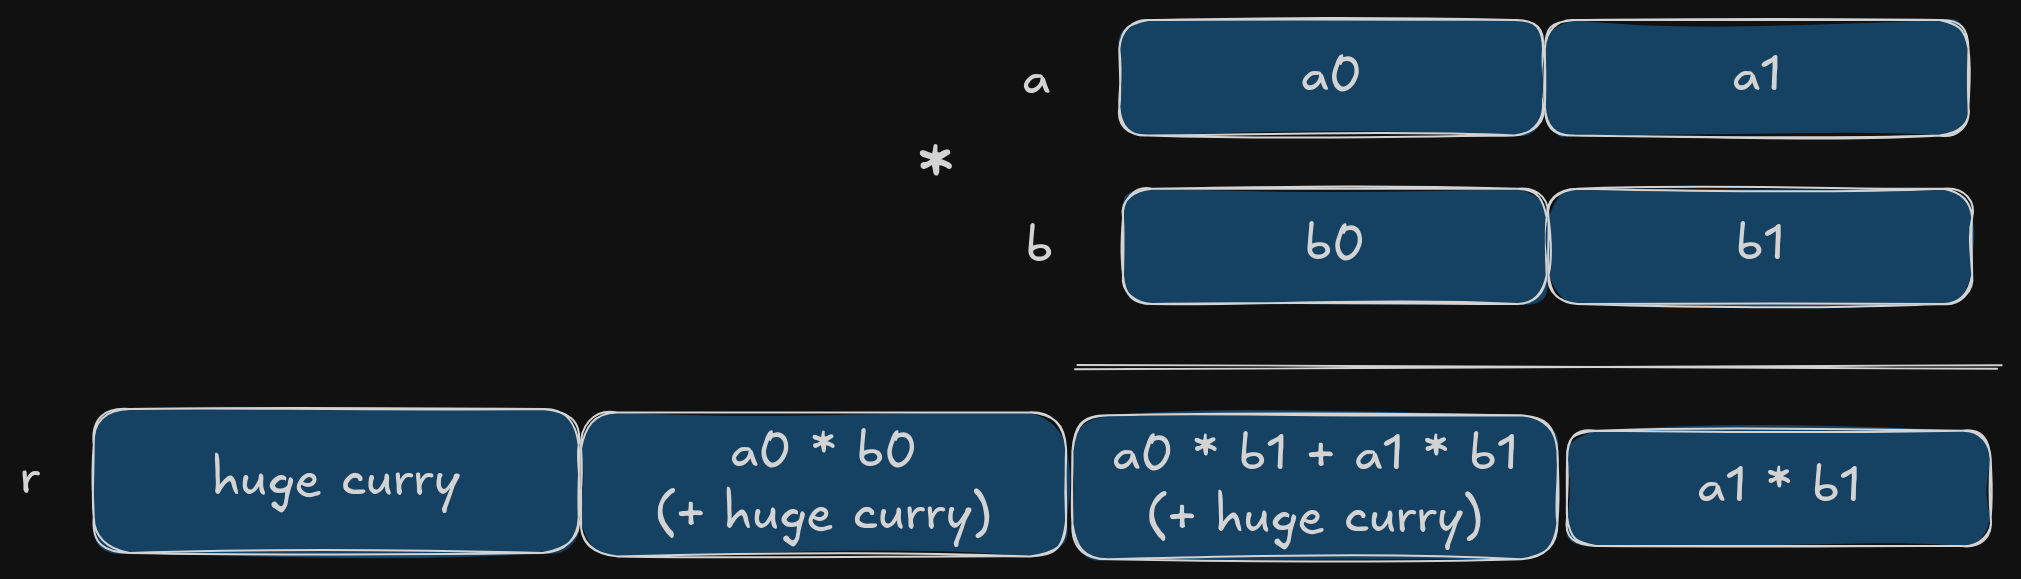
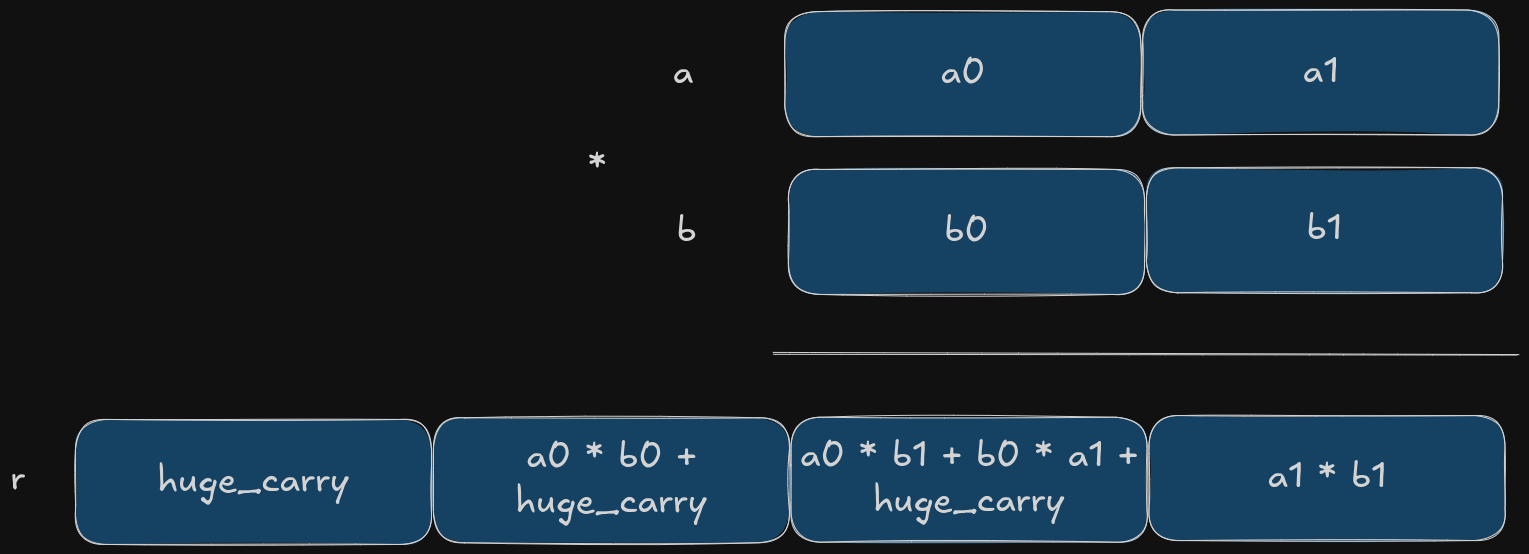
final version

diff --git a/README.md b/README.md
@@ -1,132 +1,118 @@
 # The most expensive Solidity function
 
-Have you ever run into a function that just won’t fit into an Ethereum block because it costs too much gas? This is the story of how we tackled that very challenge!
-
 ## The problem
 
-It all started when we built the Rarimo protocol. If you aren’t familiar with Rarimo, check out [this post](https://medium.com/@denys.riabtsev/national-passports-verification-with-zkp-part-1-b653f5e5c8d8) for more details. Rarimo lets users prove that they have a passport from a certain country without revealing any personal information.
+Have you ever run into a situation where a smart contract function just won't fit into an Ethereum block because it consumes too much gas? This is the story of how we tackled that very challenge!
 
-The challenge was that there are no strict rules for passport cryptography. Each country can use its own method. Some use RSA or ECDSA signatures combined with various hash functions like SHA-256, SHA-384, SHA-512, and more. OpenPassport even has a [map](https://map.openpassport.app/) showing the algorithms used in passports worldwide. For example, Peru uses only ECDSA signatures over 384-bit curves, while Brazil uses 512-bit curves.
+It all started during the development of the Rarimo protocol. If you aren't familiar with Rarimo, check out [this post](https://medium.com/@denys.riabtsev/national-passports-verification-with-zkp-part-1-b653f5e5c8d8) for more details. Rarimo lets users prove via ZKP they have a passport from a certain country without revealing any personal details. Today, Rarimo is working to support all types of passports worldwide!
 
-At first, it seemed simple to build a solution that supports all these algorithms since the only real difference was the size of the parameters used. But here’s the problem: the Ethereum Virtual Machine (EVM) only supports 256-bit unsigned integers! So, we had three choices:
+Supporting every passport type is a really challenging task because there are no strict rules for passport cryptography - each country can choose its own method. Some use RSA or ECDSA signatures combined with various hash functions like SHA-256, SHA-384, or SHA-512, and more. OpenPassport even provides a [world map](https://map.openpassport.app/) of the algorithms used in passports. For example, Peru uses only ECDSA signatures on 384-bit curves, while Brazil uses 512-bit curves.
 
-1. **Use Zero-Knowledge Proofs:** Verify the signature with ZK-proofs. The downside was that users would need to download a huge "zkey", which would make the UX worse.
-2. **Make a Precompile:** Create a precompile for signature verification. However, this would require a chain fork, which is not easy.
-3. **Do Everything On-Chain:** Implement all the logic on-chain. Although this method wouldn’t work on Mainnet because of high gas costs, it was a good fit for us since we use our own Layer 2 solution with cheap gas. Our only challenge was to keep the function’s gas usage below 30 million per block.
+Although it might seem easy to build a solution that supports all these algorithms since the only real difference is the size of the parameters, there's a huge problem: the EVM only supports 256-bit unsigned integers. This limitation means we cannot simply integrate an existing ECDSA library.
+
+So, we had three choices:
+1. _Use Zero-Knowledge Proofs:_ Verify the signature with ZK-proofs. The downside was that users would need to download a huge "zkey", which would make the UX worse.
+2. _Make a Precompile:_ Create a precompile for signature verification. However, this would require a chain fork, which is not easy.
+3. _Do Everything On-Chain:_ Implement all the logic on-chain. Although this method wouldn't work on Mainnet because of high gas costs, it was a good fit for us since Rarimo is a Layer 1 where gas is cheap. Also, the full-on-chain library could be easily reusable if required. Our only challenge was to keep the function's gas usage below 30 million per block.
 
 ## BigNumber library
 
-Finally, we decided to go with the third approach: implementing ECDSA for both 384-bit and 512-bit curves directly on-chain. But we ran into another problem. It turned out that there isn’t an efficient "bigint" library available. Not because no one can write one, but because it’s nearly impossible to build one in a general way that works with any integer size while keeping the gas cost as low as possible.
+The choice was obvious, so we decided to go with the third approach: implementing ECDSA verification for both 384-bit and 512-bit curves directly on-chain. But we ran into another problem. It turned out that there wasn't an efficient "bigint" library available. Not because no one could write one, but because it's nearly impossible to implement it in a general way that works with arbitrary integer size while keeping the gas consumption as low as possible.
 
-For example, we tried to integrate our code with the [BigNumber library](https://github.com/firoorg/solidity-BigNumber). This library is really cool and gave us ideas for future improvements, but our verification algorithm still used too much gas because of two issues:
+For example, we tried to integrate our Solidity code with the [BigNumber library](https://github.com/firoorg/solidity-BigNumber). This library is really cool and gave us ideas for future improvements, but our verification algorithm still used too much gas because of two issues:
+1. _Abstraction costs:_ The library is written in a general way to handle any integer size. However, as is often the case, any abstractions make your code less optimized.
+2. _Memory Expansion:_ Solidity doesn't have a heap or allocators for efficient memory management. Once memory is allocated, it is never released, which also results in [memory expansion](https://www.evm.codes/about#memoryexpansion) overhead.
 
-1. **Abstraction costs:** The library is written in a general way to handle any integer size. However, as is often the case, any abstractions make your code less optimized.
-2. **Memory Expansion:** The EVM doesn't have a heap or allocators for efficient memory management. Once memory is allocated, it is never released, which also results in [memory expansion](https://www.evm.codes/about#memoryexpansion) overhead.
+We spent a lot of time looking for a solution. We tried to optimize the library and even emulated a heap and allocators directly in Solidity to cut down the overhead. We even found some bugs and [contributed](https://github.com/firoorg/solidity-BigNumber/pull/18) to the original BigNumber library.
 
-We spent a lot of time looking for a solution. We tried to optimize the library and even emulated a heap and allocators directly in Solidity to cut down the overhead. We even found some bugs and  [contributed](https://github.com/firoorg/solidity-BigNumber/pull/18)  to the original BigNumber library.
+But nothing worked. Our implementation still required more than 400 billion gas for execution plus gas needed for memory expansion overhead. We couldn't even run the whole algorithm in our testing environment because the machine ran out of RAM!
 
-But nothing worked. Our implementation still required more than 400 billion gas for execution plus gas needed for memory expansion overhead. We couldn’t even run the whole algorithm in our testing environment because the machine ran out of memory.
-
-## Uint512
+## Uint512 library
 
 Just when we were about to give up and try one of the other options, a sudden idea struck us. We realized that we didn't need a general BigNumber library at all - we only needed 512-bit integers! With everything we had learned from working with the BigNumber library, we believed it's possible to implement our own highly optimized library for 512-bit unsigned integers.
 
 ### Memory layout
 
-How to implement a uint512 library most efficiently? The first challenge was deciding how to store a uint512 in memory. Since the integer size is fixed, we can always use 2 memory slots - each 256 bits - to hold a uint512. But what data type should be used? Structs? Bytes? Neither, because both require an extra memory slot. For example, a bytes type needs a slot for its length, and a struct needs a slot for a data pointer.
+How to implement a uint512 library most efficiently? The first challenge was deciding how to store a uint512 in memory. Since the integer size is fixed, we can always use 2 memory slots - ach 256 bits - to hold a uint512. But what data type should be used?
+
+- _Structs?_ Not ideal, because when you use structs, you don't have direct control over the memory allocation. Once the "memory" variable is declared, the compiler might make an allocation for it in ways you can't manage.
+- _Bytes?_ Also not a good fit, since a bytes type requires an extra memory slot to store its length.
 
 That's why we decided to use raw pointers directly on the stack. They are automatically removed when the function finishes, so only 2 memory slots are used for each uint512. Using less memory reduces the overhead from memory expansion, which is crucial for functions that perform a lot of work.
 
-The diagram below shows the different storage structures:
+The diagram below shows how a uint512 is represented in memory:
 
 ![diagram](./layout.png)
 
-Even more, starting with Solidity 0.8.8, [user-defined value types](https://soliditylang.org/blog/2021/09/27/user-defined-value-types/) are added, which makes the user experience much smoother. You no longer need to use the `memory` keyword, and you might even forget that the uint512 type isn’t built-in!
-
-Here's an example:
-
-```
-// U512.sol
-type uint512 is uint256; // synonym for pointer
-
-// Contract.sol
-uint512 a_ = U512.fromUint256(3);
-uint512 b_ = U512.fromUint256(6);
-uint512 m_ = U512.fromUint256(5);
-uint512 r_ = U512.modadd(a_, b_, m_);
-U512.eq(r_, U512.fromUint256(4)); // true
-U512.toBytes(r_); // "0x00..04" - 64 bytes
-```
-
-This setup allows you to work with uint512 almost as if it were a native type.
+Even more, starting with Solidity 0.8.8, [user-defined value types](https://soliditylang.org/blog/2021/09/27/user-defined-value-types/) were added, which makes the user experience much smoother. You no longer need to use the "memory" keyword, and you might even forget that the uint512 type isn't built-in!
 
 ### Basic operations
 
 Now that we understand how to store our uint512 values, it should be clear how to implement basic operations. The idea is simple: perform the same operation on the matching 256-bit words of the two numbers, and then combine the results correctly.
 
-For example, when adding two uint512 values, you add the lower words first and then the upper words, making sure to handle any overflow from the lower word addition. The diagram below shows how you can implement the add function.
+For example, when adding two uint512 values, you add the lower words first and then the upper words, making sure to handle any overflow from the lower word addition. The diagram below shows how you can implement the add function:
 
 ![diagram](./add.png)
 
-### Modexp magic 
+### Modexp magic
 
-But what about mod operations? Is it necessary to write a mod function in Solidity? That would be tough. The answer is no. We can use the [modexp precompile](https://www.evm.codes/precompiled?fork=cancun#0x05) available in the EVM! This built-in feature lets you make a static call to a predefined contract that calculates `b^e mod m` for any size of input.
+But what about mod operations? Is it necessary to write a mod function in Solidity? That would be tough. The answer is no. We can use the [modexp precompile](https://www.evm.codes/precompiled?fork=cancun#0x05) available in the EVM! This built-in feature lets you make a static call to a predefined contract that calculates _b^e mod m_ for any size of input.
 
-This saves a lot of gas because, instead of coding the mod algorithm on-chain, the Ethereum node does the heavy work for you at a low cost. With this tool, it's easy to implement functions like modexp directly, as well as mod (by setting `e = 1`), and modadd along with modmul by first computing the result and then taking it modulo.
+This saves a lot of gas because, instead of coding the mod algorithm on-chain, the Ethereum node does the heavy work for you at a low cost. With this tool, it's easy to implement functions like _modexp_ and _mod_ (by setting _e = 1_) directly, as well as _modadd_ and _modmul_ by first computing the overflowed result and then taking it modulo.
 
-However, you must use the modexp precompile carefully. For example, we once accidentally passed the exponent size as 64 bytes, which ended up costing 10 times more gas, even though the exponent was just 1!
+However, you must use the modexp precompile carefully. For example, passing the exponent size as 64 bytes would result in the precompile consuming 10 times more gas, even if the exponent was small!
 
 ### Multiplication
 
-Multiplication is the most expensive operation so far because its complexity grows quadratically, which leads to many overflows that are hard to manage. The BigNumber library uses a clever trick: instead of computing `a * b` directly, it calculates `((a + b)^2 - (a - b)^2) / 4`. This equation is mathematically equivalent to `a * b` and uses basic operations like add, sub, mul, and shr (instead of division by 4). Although it's an awesome idea, it requires several modexp calls along with many intermediate steps and extra memory allocations, making it inefficient.
+Multiplication is the most expensive operation so far because its complexity grows quadratically, which leads to many overflows that are hard to manage. The BigNumber library uses a clever trick: instead of computing a * b directly, it calculates _((a + b)² - (a - b)²) / 4_. This equation is mathematically equivalent to _a * b_ and uses basic operations like _add_, _sub_, _mul_, and _shr_ (instead of division by _4_). Although it's an awesome idea, it requires several modexp calls along with many intermediate steps and extra memory allocations, making it inefficient.
 
-It turned out that for small integers, a column-by-column multiplication (as shown in the diagram below) is more efficient:
+It turned out that for small integers, a column-by-column multiplication, as shown in the diagram below, is more efficient:
 
 ![diagram](./mul.png)
 
-But when multiplying 512-bit numbers stored as two 256-bit words, we must multiply the corresponding words and handle the carries accurately. This is not as straightforward as it seems. Multiplying two 256-bit numbers can generate a huge carry, and we only have Solidity’s built-in uint256 arithmetic to work with.
+But when multiplying 512-bit numbers stored as two 256-bit words, we must multiply the corresponding words and handle the carries accurately. This is not as straightforward as it seems. Multiplying two 256-bit numbers can generate a huge carry, and we only have Solidity's built-in uint256 arithmetic to work with.
 
-Fortunately, this is a known problem that can be solved efficiently using the EVM’s [modmul opcode](https://www.evm.codes/?fork=cancun#09). Remco Bloemen explains this approach in his article [Mathemagic finale: muldiv](https://xn--2-umb.com/21/muldiv/). We don’t need the division part of his method, but the small piece of code that calculates the most significant 256 bits of the product - "huge carry". It's only three lines of code, but it packs a lot of math:
+Fortunately, this is a known problem that can be solved efficiently using the EVM's [modmul opcode](https://www.evm.codes/?fork=cancun#09). Remco Bloemen explains this approach in his article [Mathemagic finale: muldiv](https://xn--2-umb.com/21/muldiv/). We don't need the division part of his method, but the small piece of code that calculates the most significant 256 bits of the product - "huge carry". It's only three lines of code, but it packs a lot of math:
 
-```
+```solidity
 // 512-bit multiply [prod1 prod0] = a * b
-// Compute the product mod 2**256 and mod 2**256 - 1
+// Compute the product mod 2**256 and mod 2**256–1
 // then use the Chinese Remainder Theorem to reconstruct
 // the 512 bit result. The result is stored in two 256
 // variables such that product = prod1 * 2**256 + prod0
 uint256 prod0; // Least significant 256 bits of the product
 uint256 prod1; // Most significant 256 bits of the product
 assembly {
-	let mm := mulmod(a, b, not(0))
-	prod0 := mul(a, b)
-	prod1 := sub(sub(mm, prod0), lt(mm, prod0))
+ let mm := mulmod(a, b, not(0))
+ prod0 := mul(a, b)
+ prod1 := sub(sub(mm, prod0), lt(mm, prod0))
 }
 ```
 
-This approach brings the gas cost of the multiplication function very close to that of the addition function: 353 gas (mul) vs 256 gas (add). Similarly, since only one modexp call is needed, the modulo versions become much more efficient 1176 gas (modmul) 760 gas (modadd).
+Applying this method for each inner operation brings the gas consumption of the uint512 multiplication function very close to that of the addition function: 353 gas (_mul_) vs 256 gas (_add_). Similarly, since only one modexp call is needed, the modulo versions become much more efficient 1176 gas (_modmul_) 760 gas (_modadd_).
 
 ### Reuse Memory
 
-While our current library works well from an algorithmic perspective, we still haven't solved the memory expansion issue completely. One major problem with the BigNumber library was that it allocated memory for every modexp precompile call. Our ECDSA algorithm, however, makes thousands of such calls, and each call uses 384 bytes of memory! This extra memory quickly adds up - and the EVM never releases it once allocated!
+While our current library works well from an algorithmic perspective, we still haven't solved the memory expansion issue completely. One major problem with the BigNumber library was that it allocates memory for every modexp precompile call. Our ECDSA algorithm, however, makes thousands of such calls, and each call uses 384 bytes of memory! This extra memory quickly adds up - and the EVM never releases it once allocated.
 
 But here's the good news: once a mod operation is complete, that memory is no longer needed. So why not help the EVM reuse that memory? Instead of allocating memory every time, we can allocate it once at the beginning of a heavy function and then pass the pointer to it to each mod operation. This way, no extra memory is allocated internally. For lighter functions, we even provide a version that allocates memory internally if you don't plan on doing many operations.
 
-Another neat feature we added is assignment operations. When working with complex formulas, you don't always need to create new integer objects; you can simply assign new values to existing ones. This helps control memory usage and reduces overhead.
+Another neat feature we added is assignment operations. When working with complex formulas, you don't always need to create new integer objects - you can simply assign new values to existing ones. This helps control memory usage and reduces overhead.
 
-The code example below shows how it works: first, you create a call pointer once, which allocates memory for internal purposes. Then, you pass this pointer into each mod function so that no additional memory is allocated. You also use assignment operations so that no new integers are created. This approach makes it easier to see and control how much memory is used.
+The code example below shows how it works: first, you create a call pointer, which points to memory for internal purposes. Then, you pass this pointer into each _mod_ function so that no additional memory is allocated. You also use assignment operations so that you reuse memory and no new integers are created. This approach makes memory control much easier!
 
-```  
-call512 call_ = U512.initCall();  
-uint512 a_ = U512.fromUint256(3);  
-uint512 b_ = U512.fromUint256(6);  
-uint512 m_ = U512.fromUint256(5);  
-uint512 r_ = U512.modadd(call_, a_, b_, m_); // 4  
+```solidity
+call512 call_ = U512.initCall(); 
+uint512 a_ = U512.fromUint256(3); 
+uint512 b_ = U512.fromUint256(6); 
+uint512 m_ = U512.fromUint256(5); 
+uint512 r_ = U512.modadd(call_, a_, b_, m_); // 4 
 U512.modmulAssign(call_, r_, a_, m_); // assigns (r_ * a_) % m_ to r_
 r_.eq(U512.fromUint256(2)); // true
-r_.toBytes(); // "0x00..02"  
+r_.toBytes(); // "0x00..02"
 ```
 
-## Gas costs
+## Gas estimation
 
 By applying all the optimizations, we achieved some impressive results:
 
@@ -153,3 +139,13 @@ By applying all the optimizations, we achieved some impressive results:
 | shr               | 272 gas  |
 
 For the ECDSA algorithm, the 384-bit curves consume 8.9 million gas and the 512-bit curves consume 13.6 million gas - a **30,000x improvement** compared to the initial version!
+
+## Reference implementation
+
+All the library implementations are available in our open-source Solidity library. These libraries are battle-tested in real projects and have 100% test coverage. But always DYOR before use them in production!
+
+- U512 Library: [U512.sol](https://github.com/dl-solarity/solidity-lib/blob/master/contracts/libs/bn/U512.sol)
+- ECDSA384: [ECDSA384.sol](https://github.com/dl-solarity/solidity-lib/blob/master/contracts/libs/crypto/ECDSA384.sol)
+- ECDSA512: [ECDSA512.sol](https://github.com/dl-solarity/solidity-lib/blob/master/contracts/libs/crypto/ECDSA512.sol)
+
+If you like this work, please give a star to our [GitHub Repository](https://github.com/dl-solarity/solidity-lib)! :)
